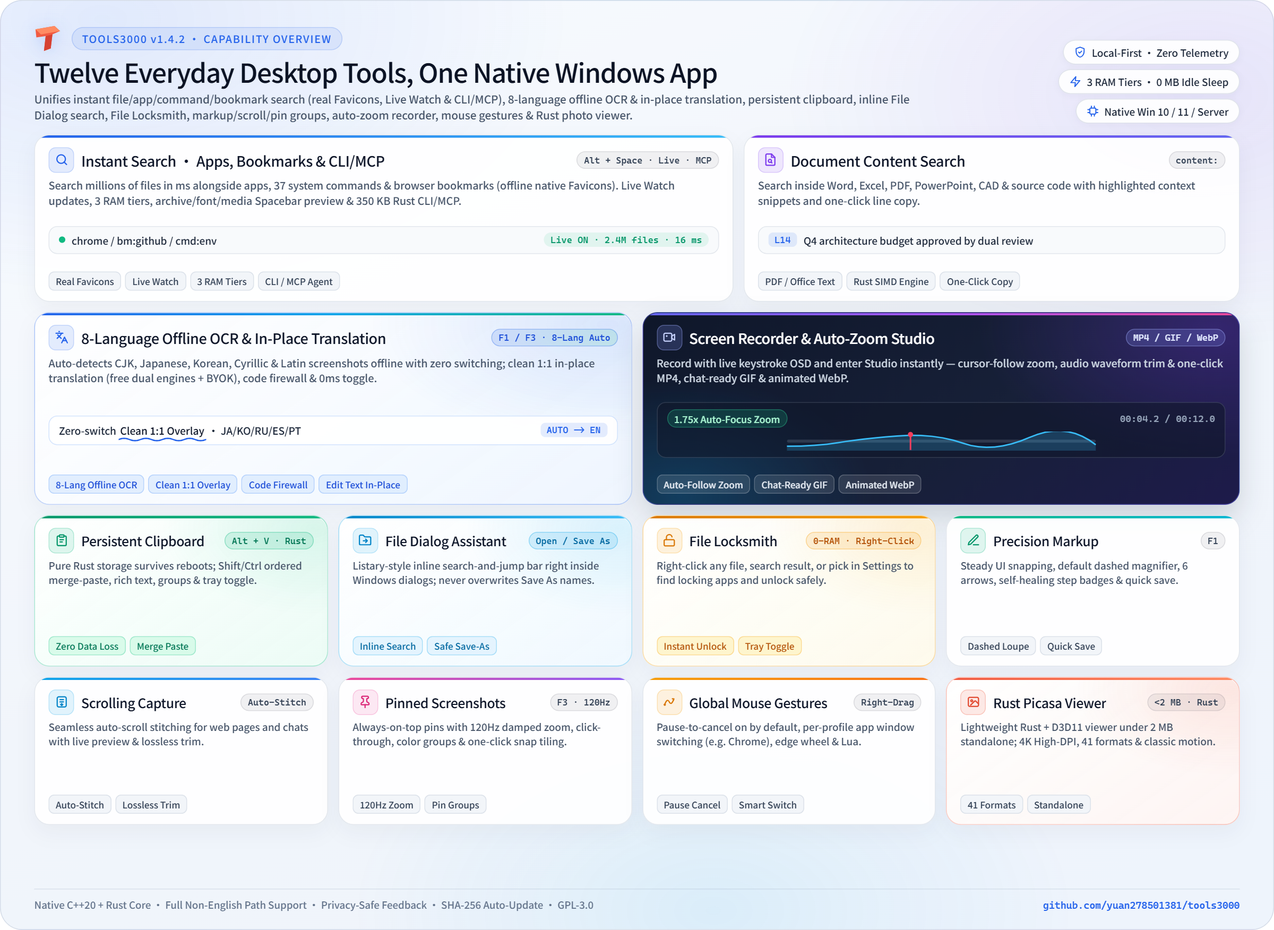
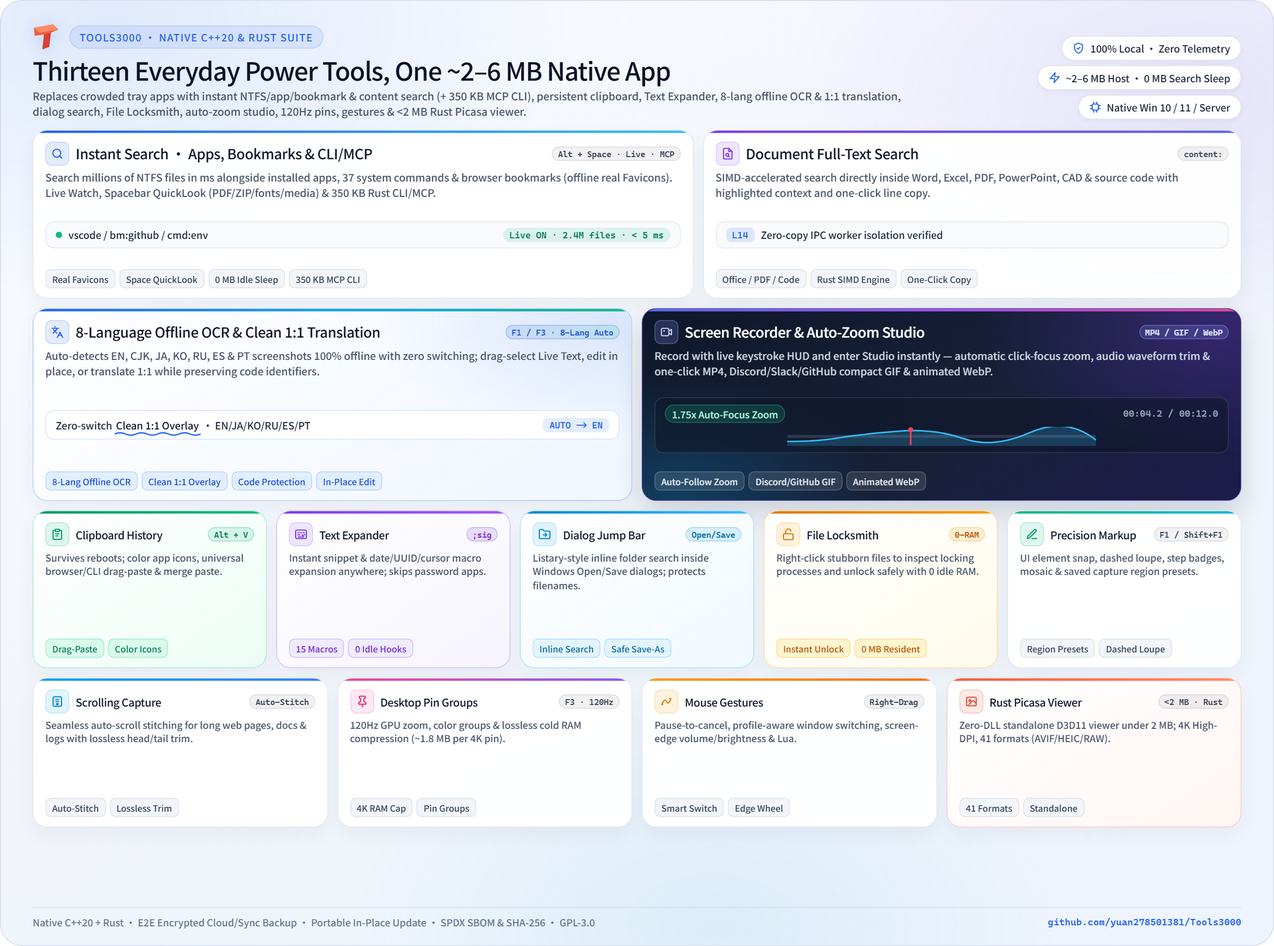
完成 8 国语言 README 与 13 核总览海报跨地域本地化精修及首屏转化升级
- [业务角度]
  - 升级全 8 国语言总览海报为 13 核无版本号常青布局（新增文本扩展器与约 2-6 MB 主进程常驻指标，移除旧版角标），杜绝版本演进图文脱节
  - 按各语种本土生态校准参照软件与术语：英文版替换为 ShareX/Greenshot/Discord/Slack 等欧美通用参照，日文版锚定 Rapture/Clibor/WinShot 与零注册表便携特性，韩文版锚定 PicPick/ALCapture/Kalmuri 与零广告捆绑特性，俄葡西版适配 Telegram/Discord/WhatsApp
  - 在英文与中文主 README 首屏置顶一键安装命令与最新下载入口，并将英文主 README 13 项动图优化为首屏核心 6 项默认展开与进阶 7 项按需折叠，提升首屏聚焦度与移动端加载体验

- [技术角度]
  - 通过自动化脚本校验全部 8 份 README 相对路径、图片资源引用、零 Emoji 与术语纯净度 100% 通过

diff --git a/README.md b/README.md
@@ -23,7 +23,12 @@
 
 <br />
 
-Tools3000 unifies everyday **file, app, system-command & real-Favicon browser bookmark search (with Live Watch, 3 RAM tiers & CLI / MCP), document content search, persistent clipboard history, native Text Expander, inline File Dialog search, File Locksmith, scrolling capture, precision markup, grouped desktop pins, 8-language offline OCR & clean in-place translation, screen recording with auto-zoom Studio (exporting MP4, WeChat-ready GIF, and animated WebP), global mouse gestures, encrypted config backup, and a Rust Picasa photo viewer** into one native Windows app. Core features run 100% locally with full support for non-English install folders and Windows usernames, keep the resident main host around 2–6 MB of private working set (around a dozen MB across the full ready process tree, with optional 0 MB idle search sleep), and support personal PCs (`x64` & `ARM64`) as well as concurrent multi-user Windows Server desktops.
+Tools3000 unifies everyday **file, app, system-command & real-Favicon browser bookmark search (with Live Watch, 3 RAM tiers & CLI / MCP), document content search, persistent clipboard history, native Text Expander, inline File Dialog search, File Locksmith, scrolling capture, precision markup, grouped desktop pins, 8-language offline OCR & clean in-place translation, screen recording with auto-zoom Studio (exporting MP4, Discord/Slack/GitHub-ready compact GIF, and animated WebP), global mouse gestures, encrypted config backup, and a Rust Picasa photo viewer** into one native Windows app. Core features run 100% locally with full support for non-English install folders and Windows usernames, keep the resident main host around **2–6 MB** of private working set (with optional 0 MB idle search sleep), and support personal PCs (`x64` & `ARM64`) as well as concurrent multi-user Windows Server desktops.
+
+> **Quick Install** — Grab **[Installer `.exe` / Portable `.zip` (Latest Release)](https://github.com/yuan278501381/Tools3000/releases/latest)**, or install via **Scoop** (`winget install Yy1.Tools3000` PR `#487469` pending merge):
+> ```powershell
+> scoop bucket add tools3000 https://github.com/yuan278501381/Tools3000 && scoop install tools3000/tools3000
+> ```
 
 ---
 
@@ -45,49 +50,35 @@ Tools3000 unifies everyday **file, app, system-command & real-Favicon browser bo
     </td>
     <td width="50%" align="center" valign="top">
       <img src="docs/images/en-US/ocr_live_text_demo.webp" alt="8-language offline OCR, Live Text selection, and in-place text replacement" width="100%" /><br />
-      <sub><b>8-Language Offline OCR &amp; Live Text</b> · Auto-detects CJK/JA/KO/RU/ES/PT locally; select, annotate, or edit in place</sub>
+      <sub><b>8-Language Offline OCR &amp; Live Text</b> · Auto-detects EN/CJK/JA/KO/RU/ES/PT locally; select, annotate, or edit in place</sub>
     </td>
   </tr>
   <tr>
     <td width="50%" align="center" valign="top">
-      <img src="docs/images/en-US/scroll_capture_demo.webp" alt="Scrolling capture with live preview and lossless trim" width="100%" /><br />
-      <sub><b>Scrolling Capture</b> · Auto-scroll seamless stitching with live sidebar preview and lossless head/tail trim</sub>
+      <img src="docs/images/en-US/translate_demo.webp" alt="Clean 1:1 in-place screenshot translation with code protection" width="100%" /><br />
+      <sub><b>In-Place 1:1 Screenshot Translation</b> · Zero-config dual free channels + BYOK LLMs, clean 1:1 overlay, code protection &amp; 0ms toggle</sub>
     </td>
     <td width="50%" align="center" valign="top">
       <img src="docs/images/en-US/screen_recording_demo.webp" alt="Screen recording and auto-zoom Studio" width="100%" /><br />
-      <sub><b>Screen Recorder &amp; Auto-Zoom Studio</b> · Smart cursor-follow zoom, export MP4, WeChat-ready GIF, and animated WebP</sub>
+      <sub><b>Screen Recorder &amp; Auto-Zoom Studio</b> · Smart cursor-follow zoom, export MP4, Discord/Slack/GitHub compact GIF &amp; animated WebP</sub>
     </td>
   </tr>
   <tr>
     <td width="50%" align="center" valign="top">
-      <img src="docs/images/en-US/content_search_demo.webp" alt="Full-text document content search with one-click line copy" width="100%" /><br />
-      <sub><b>Document Content Search</b> · Search inside PDF, Word, Excel, and source code with highlighted context</sub>
+      <img src="docs/images/en-US/clipboard_demo.webp" alt="Persistent clipboard history with drag-paste and Shift/Ctrl ordered merge paste" width="100%" /><br />
+      <sub><b>Persistent Clipboard History (Alt + V)</b> · Survives reboots, color app icons, universal browser/CLI drag-paste &amp; ordered merge paste</sub>
     </td>
     <td width="50%" align="center" valign="top">
-      <img src="docs/images/en-US/capture_markup_demo.webp" alt="Precision screenshot annotation and dashed magnifier" width="100%" /><br />
-      <sub><b>Precision Screenshot Markup</b> · Smart element snapping, dashed optical magnifier, privacy mosaic, and auto-healing steps</sub>
+      <img src="docs/images/en-US/text_expander_demo.webp" alt="System-wide Text Expander: instant snippet expansion, dynamic macros, and zero clipboard pollution" width="100%" /><br />
+      <sub><b>Native Text Expander</b> · Type <code>;date</code> or <code>;sig</code> anywhere for instant expansion with 15 dynamic macros &amp; password-manager guard</sub>
     </td>
   </tr>
-  <tr>
-    <td width="50%" align="center" valign="top">
-      <img src="docs/images/en-US/pin_groups_demo.webp" alt="Grouped desktop pins with quick switching and snap tiling" width="100%" /><br />
-      <sub><b>Desktop Pins &amp; Pin Groups</b> · F3 always-on-top pins with color groups, top bar switching, and one-click tiling</sub>
-    </td>
-    <td width="50%" align="center" valign="top">
-      <img src="docs/images/en-US/mouse_gesture_demo.webp" alt="Global mouse gestures and screen-edge wheel volume control" width="100%" /><br />
-      <sub><b>Global Mouse Gestures</b> · Pause-to-cancel on by default, profile-aware window switching, instant trigger &amp; edge wheel</sub>
-    </td>
-  </tr>
-  <tr>
-    <td width="50%" align="center" valign="top">
-      <img src="docs/images/en-US/translate_demo.webp" alt="WeChat-grade 1:1 in-place screenshot translation with code protection" width="100%" /><br />
-      <sub><b>In-Place Screenshot Translation</b> · Zero-config dual free channels + BYOK LLMs, clean 1:1 overlay &amp; 0ms toggle</sub>
-    </td>
-    <td width="50%" align="center" valign="top">
-      <img src="docs/images/en-US/clipboard_demo.webp" alt="Persistent clipboard history with Shift/Ctrl ordered merge paste" width="100%" /><br />
-      <sub><b>Persistent Clipboard History (Alt + V)</b> · Survives reboots, Shift/Ctrl ordered merge paste &amp; tray toggle</sub>
-    </td>
-  </tr>
+</table>
+
+<details>
+<summary><b>View 7 more live demos</b> — File Dialog Inline Search, File Locksmith, Scrolling Capture, Precision Markup, 120Hz Pin Groups, Document Full-Text Search &amp; Global Mouse Gestures</summary>
+<br />
+<table>
   <tr>
     <td width="50%" align="center" valign="top">
       <img src="docs/images/en-US/dialog_enhancer_demo.webp" alt="File Dialog Assistant with Listary-style inline search and jump" width="100%" /><br />
@@ -99,12 +90,33 @@ Tools3000 unifies everyday **file, app, system-command & real-Favicon browser bo
     </td>
   </tr>
   <tr>
+    <td width="50%" align="center" valign="top">
+      <img src="docs/images/en-US/scroll_capture_demo.webp" alt="Scrolling capture with live preview and lossless trim" width="100%" /><br />
+      <sub><b>Scrolling Capture</b> · Auto-scroll seamless stitching with live sidebar preview and lossless head/tail trim</sub>
+    </td>
+    <td width="50%" align="center" valign="top">
+      <img src="docs/images/en-US/capture_markup_demo.webp" alt="Precision screenshot annotation and dashed magnifier" width="100%" /><br />
+      <sub><b>Precision Screenshot Markup</b> · Smart element snapping, dashed optical magnifier, privacy mosaic &amp; saved region presets</sub>
+    </td>
+  </tr>
+  <tr>
+    <td width="50%" align="center" valign="top">
+      <img src="docs/images/en-US/pin_groups_demo.webp" alt="Grouped desktop pins with quick switching and snap tiling" width="100%" /><br />
+      <sub><b>Desktop Pins &amp; Pin Groups</b> · F3 always-on-top pins with color groups, 4K lossless RAM compression &amp; one-click tiling</sub>
+    </td>
+    <td width="50%" align="center" valign="top">
+      <img src="docs/images/en-US/content_search_demo.webp" alt="Full-text document content search with one-click line copy" width="100%" /><br />
+      <sub><b>Document Content Search</b> · Search inside PDF, Word, Excel, and source code with highlighted context</sub>
+    </td>
+  </tr>
+  <tr>
     <td colspan="2" align="center" valign="top">
-      <img src="docs/images/en-US/text_expander_demo.webp" alt="System-wide Text Expander: instant snippet expansion, dynamic macros, and zero clipboard pollution" width="68%" /><br />
-      <sub><b>Text Expander</b> · Type <code>;date</code> or <code>;sig</code> anywhere for instant expansion with dynamic macros, password-manager guard, and zero clipboard history pollution</sub>
+      <img src="docs/images/en-US/mouse_gesture_demo.webp" alt="Global mouse gestures and screen-edge wheel volume control" width="68%" /><br />
+      <sub><b>Global Mouse Gestures</b> · Pause-to-cancel on by default, profile-aware window switching, instant trigger &amp; edge wheel</sub>
     </td>
   </tr>
 </table>
+</details>
 
 | Module | Core Experience |
 | :--- | :--- |
@@ -118,7 +130,7 @@ Tools3000 unifies everyday **file, app, system-command & real-Favicon browser bo
 | **Precision Screenshot Markup** | `F1` snaps directly to windows and UI elements with pixel color picker, default dashed optical magnifier, 6 arrow styles, self-healing step badges, mosaic, sharing frames, decoupled auto-copy / auto-save finish actions, plus `Shift + F1` / `R` to reuse saved & recent capture regions. |
 | **Desktop Pins & Pin Groups** | `F3` pins screenshots or clipboard content always-on-top with 120Hz GPU smooth zoom, opacity, click-through, color groups, and one-click snap-tiling; includes lossless cold compression & GPU texture unloading so even dozens of 4K or scrolling pins stay lightweight, with configurable auto Live Text recognition. |
 | **8-Language Offline OCR & In-Place Translation** | Pure local auto-detect OCR across 8 languages (Chinese, English, Japanese, Korean, Russian, Spanish, and Portuguese — on-demand lightweight language packs plus right-click per-image language switch); select/copy, highlight/underline, edit in place, extract tables/QR codes; plus **clean 1:1 in-place screenshot translation** (free dual channels + BYOK LLMs) with code protection and 0ms toggle. |
-| **Screen Recorder & Auto-Zoom Studio** | Screen recording with keystroke overlay flows directly into Studio — automatic click-focus zoom, curated wallpapers, audio waveform timeline, and one-click export to **MP4**, **WeChat-ready GIF**, and **animated WebP**. |
+| **Screen Recorder & Auto-Zoom Studio** | Screen recording with keystroke overlay flows directly into Studio — automatic click-focus zoom, curated wallpapers, audio waveform timeline, and one-click export to **MP4**, **Discord / Slack / GitHub-ready compact GIF**, and **animated WebP**. |
 | **Global Mouse Gestures** | Right-drag to switch tabs, navigate back, or close windows; pause-to-cancel enabled by default, smart app window switching without duplicate launches (even across Chrome profiles), instant trigger without releasing, screen-edge wheel volume/brightness, 8-second easter egg, fullscreen game bypass, and Lua scripting. |
 | **Presenter, Remote Boost & Feedback** | Crisp keystroke OSD and double-`Ctrl` spotlight; remote desktop (`mstsc`, RustDesk, ToDesk) hotkey passthrough and one-key stuck-modifier recovery; built-in sidebar **Feedback** button with automatic local privacy redaction before exporting diagnostics. |
 | **Picasa Photo Viewer (Rust Recreation · Optional)** | Lightweight Picasa-style image viewer recreated in Rust + Direct2D (**viewer only, not the full Google Picasa suite**). **Under 2 MB as a zero-dependency standalone executable** that works both inside Tools3000 and completely standalone on any Windows PC. Unchecked by default in the installer; enabling automatically associates all 41 supported image formats with classic Polaroid icons and a native dark/light Direct2D format manager. Alongside faithful cursor-anchored damped zoom, filmstrip wave, smooth close, and cross-dissolve slideshow animations, it **adds modern capabilities the original lacked**: native 4K High-DPI (100%–250%+) crispness, 60–240Hz VSync rendering, WebP / AVIF / HEIC / SVG / QOI / DDS / camera RAW decoding, animated GIF/WebP/APNG frame scrubbing, lossless horizontal/vertical flip, and 8-language UI. |
@@ -164,11 +176,11 @@ Tools3000 is built for complete zero-black-box transparency (full details in **[
 
 ## Why I Built Tools3000
 
-I have been a heavy **Everything** user for over ten years. For screenshots, I started with the built-in **QQ / WeChat** capture tools, moved to **FastStone Capture** for its convenient annotation tools, then switched to **Snipaste** for pinning screenshots on screen, and later migrated to **PixPin** for scrolling capture, magnifier annotations, and OCR. For mouse gestures, I went from **WGestures** to **WGestures 2**, and I cycled through plenty of screen recorders along the way — and even gave Microsoft **PowerToys** a try in between, yet it still missed several daily essentials, leaving me back with a row of separate apps.
+I have been a heavy **Everything** user for over ten years. For screenshots and desktop pins, I bounced across **Greenshot**, **FastStone Capture**, **ShareX**, and **Snipaste** as I needed element snapping, scrolling capture, magnifier callouts, and fast offline OCR. For clipboard history and snippets I ran **Ditto** and **AutoHotkey**, for mouse gestures I went from **WGestures** to **StrokesPlus**, and I cycled through plenty of screen recorders along the way — even giving Microsoft **PowerToys** a serious try in between, yet it still missed several daily essentials, leaving me back with a crowded row of separate background apps.
 
-Image viewers were another long-standing frustration: domestic viewers were packed with pop-up ads and bloatware, and after Google discontinued **Picasa**, I tried several alternatives online — including **FastStone Image Viewer** and even the official viewer from the Everything author (**Void Image Viewer**) — yet none felt as fluid and effortless as Picasa. Eventually I gave up and settled for the built-in Windows Photos app. While building Tools3000, I decided to recreate the lightweight Picasa Photo Viewer in Rust + Direct2D (under 2 MB, zero external dependencies, usable completely standalone) and fill in the modern formats and High-DPI capabilities the classic original never had.
+Image viewers were another long-standing frustration: third-party freeware viewers were increasingly packed with pop-up ads or heavy frameworks, and after Google discontinued **Picasa**, I tried **FastStone Image Viewer** and even **Void Image Viewer** (from the Everything author) — yet none felt quite as fluid and effortless as classic Picasa on modern 4K displays. While building Tools3000, I decided to recreate the lightweight Picasa Photo Viewer in Rust + Direct3D 11 (under 2 MB, zero external dependencies, usable completely standalone) and fill in the modern formats (AVIF, HEIC, WebP, SVG, RAW) and High-DPI capabilities the classic original never had.
 
-One day I looked at the row of icons sitting in my Windows system tray and thought: **what if all of these lived in a single app?** On top of tray clutter, a couple of daily annoyances kept nagging at me — PixPin's OCR still lagged behind WeChat in both accuracy and speed, and WGestures started leaving a stubborn tiny text box stuck on screen that only went away after restarting the app. With AI now making ambitious solo builds possible, I rolled up my sleeves and built **Tools3000** as an all-in-one replacement.
+One day I looked at the row of icons sitting in my Windows system tray and thought: **what if all of these lived in a single native app without Electron bloat?** On top of tray clutter and conflicting global hooks, small daily annoyances kept nagging at me — built-in Windows OCR struggled on mixed-language technical screenshots, and my gesture tool occasionally left stuck overlay artifacts on screen until restarted. With modern tooling making ambitious solo systems projects practical, I rolled up my sleeves and built **Tools3000** as one cohesive C++20 + Rust suite.
 
 To be completely transparent with new users: I have been **dogfooding Tools3000 daily for 4 months**, progressively adding features and fixing issues as they came up. Early on I kept the old apps running as fallbacks whenever something broke; **today, my system tray is finally clean — Tools3000 is the only one left running.**
 
@@ -184,9 +196,9 @@ Dedicated single-purpose tools each excel at deep niche workflows. Tools3000 is 
 | :--- | :--- | :--- |
 | **Everything** | `Alt + Space` millisecond NTFS filename, phonetic, `bm:` browser bookmarks, and `content:` full-text document search, plus a 350 KB pure Rust CLI / MCP server — starting strictly on demand | When you need HTTP/ETP network file servers, full EXIF/media property column indexing, or legacy scripts tied to `es.exe` syntax |
 | **Ditto / Windows `Win + V` Clipboard** | `Alt + V` pure Rust atomic persistent clipboard history (survives reboots) with `Shift / Ctrl` ordered merge-paste & batch delete, HTML/RTF rich text, custom groups, inline edit, and `Alt + 1..9` instant paste | When you need real-time LAN clipboard sync across multiple PCs or cloud-synced clipboard roaming |
-| **Snipaste / PixPin** | `F1` region capture & markup, dashed magnifier, scrolling capture, `F3` 120Hz grouped desktop pins, 1:1 in-place screenshot translation, and fast local offline OCR with in-place text replacement | When you rely on Snipaste's ultra-specialized legacy GUI element snapping or custom CLI screenshot chains |
+| **Snipaste / Greenshot / PowerToys Text Extractor** | `F1` region capture & markup, dashed magnifier, scrolling capture, `F3` 120Hz grouped desktop pins (lossless 4K RAM cap), 1:1 in-place screenshot translation, and fast 8-language local offline OCR with in-place text replacement | When you rely on Snipaste's ultra-specialized legacy GUI element snapping or custom CLI screenshot chains |
 | **WGestures / StrokesPlus** | Right-drag gestures for tabs/back/close, instant trigger without release, screen-edge wheel volume, hot corners, fullscreen game bypass, and Lua scripting | When you need multi-button chord gestures (e.g., left-hold + right-gesture), intricate window-region conditions, or years of recorded macros |
-| **Screen Recorders (e.g. ShareX)** | Screen recording, keystroke overlay, instant auto-zoom Studio (waveform trimming & cursor auto-zoom), exporting MP4, messenger-ready GIF, and animated WebP | When you need 80+ cloud/S3/FTP/Webhook auto-upload workflows or heavily customized FFmpeg post-capture pipelines |
+| **ShareX / Screen Studio** | Screen recording, keystroke overlay, instant auto-zoom Studio (waveform trimming & cursor auto-zoom), exporting MP4, Discord/Slack/GitHub compact GIF, and animated WebP | When you need 80+ cloud/S3/FTP/Webhook auto-upload workflows or heavily customized FFmpeg post-capture pipelines |
 | **Picasa Photo Viewer / FastStone / Windows Photos** | Optional under-2 MB zero-dependency Rust recreation of the classic lightweight Picasa viewer (also works completely standalone), bringing faithful animations plus 4K High-DPI, WebP/AVIF/HEIC/SVG/RAW, and lossless flip | When you need full Google Picasa album catalog management, face recognition, or dedicated batch RAW editing |
 | **Listary Dialog Jump / PowerToys File Locksmith** | Listary-style inline folder search in Windows Open/Save and internal dialogs (protecting Save-As filenames); zero-RAM File Locksmith via Explorer right-click or built-in page | Full Listary custom launcher action workflows or deep kernel handle forensics |
 | **Espanso / Beeftext / AutoHotkey Snippets** | Built-in native Text Expander (ready out of the box, zero hooks when off) with immediate/boundary triggers, date/clipboard/cursor macros, password-manager auto-skip, live sandbox, and JSON import/export | Complex YAML form dialogs, shell-command dynamic output, or cross-platform Linux/macOS config sync |

diff --git a/docs/i18n/README.es.md b/docs/i18n/README.es.md
@@ -116,7 +116,7 @@ Tools3000 integra en una sola aplicación nativa para Windows las herramientas e
 | **Anotación Precisa** | `F1` se ajusta automáticamente a ventanas y controles de interfaz; incluye selector de color por píxel, lupa óptica discontinua, 6 tipos de flecha, numeración autoajustable, mosaico, marcos, acciones independientes de copiar/guardar al finalizar y `Shift + F1` / `R` para regiones fijadas y recientes. |
 | **Pines en Pantalla y Grupos** | Fija capturas o contenido del portapapeles siempre encima (`F3`) con zoom GPU fluido 120Hz, opacidad, paso de clics, grupos de color y alineación en cuadrícula; incorpora compresión fría sin pérdidas para decenas de pines 4K/largos e interruptor de OCR automático al fijar. |
 | **OCR Local (8 Idiomas) y Traducción In Situ** | Reconocimiento 100% local con detección automática de 8 idiomas sin cambio manual (paquetes ligeros adicionales bajo demanda y cambio de idioma por clic derecho en cada pin); selecciona/copia, subraya, edita en el sitio y extrae tablas/QR, más **traducción limpia 1:1 directamente sobre la captura** (canales gratuitos + BYOK LLM), protección de código y cambio en 0 ms al original. |
-| **Grabación de pantalla y Estudio** | Graba la pantalla con superposición de teclas y clics y pasa al instante al Estudio: zoom automático inteligente en clics, fondos seleccionados, edición por forma de onda y exportación a **MP4**, **GIF listo para mensajería/WeChat** y **WebP animado**. |
+| **Grabación de pantalla y Estudio** | Graba la pantalla con superposición de teclas y clics y pasa al instante al Estudio: zoom automático inteligente en clics, fondos seleccionados, edición por forma de onda y exportación a **MP4**, **GIF compacto para Discord / Slack / Telegram** y **WebP animado**. |
 | **Gestos Globales de Ratón** | Mantén el botón derecho y desliza para cambiar pestañas, retroceder o cerrar ventanas; cancelar al pausar activo por defecto, cambio inteligente a ventanas ya abiertas (incluso distintos perfiles de Chrome), disparo inmediato, volumen/brillo en bordes, easter egg de 8s, pausa en juegos y scripts Lua. |
 | **Presentación, Escritorio Remoto y Comentarios** | Visualización limpia de teclas y foco con doble toque en `Ctrl`; paso directo de atajos en mstsc, RustDesk, ToDesk y AnyDesk con liberación de teclas bloqueadas; botón **Comentarios** en la esquina inferior izquierda con ocultación automática local de usuario, IP, correo y tokens antes de exportar diagnósticos. |
 | **Visor de Fotos Picasa (Rust · Opcional)** | Visor ligero estilo Picasa recreado en Rust + Direct2D (**solo visor, no la suite completa de Google Picasa**). **Ejecutable único de menos de 2 MB y cero dependencias externas: funciona con Tools3000 o completamente independiente en cualquier PC con Windows.** Desmarcado por defecto en el instalador; al activarlo asocia automáticamente los 41 formatos compatibles (con iconos Polaroid y panel nativo Direct2D en modo claro/oscuro). Además del zoom amortiguado en el cursor, tira de miniaturas y presentación con fundido cruzado, **añade funciones que el original nunca tuvo**: nitidez 4K High-DPI (100%–250%+), VSync 60–240 Hz, WebP / AVIF / HEIC / SVG / QOI / DDS / RAW de cámara, control de animaciones, volteo sin pérdidas e interfaz en 8 idiomas. |
@@ -162,11 +162,11 @@ Transparencia total sin cajas negras (detalles completos en **[SECURITY.md](../.
 
 ## Por qué creé Tools3000
 
-Llevo más de diez años usando **Everything** a diario. En capturas de pantalla empecé con las herramientas integradas de **QQ y WeChat**, pasé a **FastStone Capture** por lo cómodas que eran sus anotaciones, luego cambié a **Snipaste** para poder fijar capturas en pantalla, y más tarde migré a **PixPin** por la captura con desplazamiento, el efecto lupa y el OCR; en gestos de ratón utilicé **WGestures** y **WGestures 2**, además de probar muchos grabadores de pantalla — a mitad de camino incluso probé Microsoft **PowerToys**, pero seguían faltando varias piezas clave de mi día a día y acabé de nuevo con varias utilidades residentes.
+Llevo más de diez años usando **Everything** a diario. En capturas de pantalla empecé con las **Lightshot** y **Greenshot**, pasé a **FastStone Capture** por lo cómodas que eran sus anotaciones, luego cambié a **Snipaste** para poder fijar capturas en pantalla, y más tarde migré a **PixPin** por la captura con desplazamiento, el efecto lupa y el OCR; en gestos de ratón utilicé **WGestures** y **WGestures 2**, además de probar muchos grabadores de pantalla — a mitad de camino incluso probé Microsoft **PowerToys**, pero seguían faltando varias piezas clave de mi día a día y acabé de nuevo con varias utilidades residentes.
 
 Con los visores de imágenes me ocurrió lo mismo: las alternativas gratuitas más extendidas estaban llenas de anuncios y software añadido, y desde que Google dejó de actualizar **Picasa** probé varias opciones — como **FastStone Image Viewer** e incluso el visor oficial del autor de Everything (**Void Image Viewer**) — pero ninguno se sentía tan fluido y natural como Picasa. Al final me rendí y me conformé con la app Fotos integrada de Windows. Así que aproveché para recrear con Rust + Direct2D el clásico visor ligero de Picasa (menos de 2 MB, cero dependencias y totalmente independiente), completando además lo que faltaba en el original: nitidez High-DPI y formatos modernos como WebP/AVIF/HEIC/SVG/RAW.
 
-Un día, mirando la fila de iconos acumulados en la bandeja del sistema de Windows, pensé: **qué bien sería unir todo esto en una sola aplicación.** A eso se sumaban dos molestias cotidianas — el OCR de PixPin seguía por detrás de WeChat en precisión y velocidad, y WGestures empezó a dejar un pequeño cuadro de texto atascado en pantalla que solo desaparecía al reiniciar el programa. Aprovechando la llegada de la IA, decidí crear esta suite todo-en-uno por mi cuenta: **Tools3000**.
+Un día, mirando la fila de iconos acumulados en la bandeja del sistema de Windows, pensé: **qué bien sería unir todo esto en una sola aplicación.** A eso se sumaban dos molestias cotidianas — el OCR integrado de Windows se quedaba corto en precisión y velocidad, y WGestures empezó a dejar un pequeño cuadro de texto atascado en pantalla que solo desaparecía al reiniciar el programa. Aprovechando la llegada de la IA, decidí crear esta suite todo-en-uno por mi cuenta: **Tools3000**.
 
 Para ser totalmente sincero con quienes lo prueben: llevo **4 meses usándolo a diario**, añadiendo funciones de forma gradual y corrigiendo fallos sobre la marcha. Al principio mantenía las apps anteriores abiertas por si algo fallaba y volvía a ellas mientras lo arreglaba; **hoy mi bandeja del sistema por fin está limpia, con Tools3000 como única herramienta residente.**
 
@@ -182,7 +182,7 @@ Cada utilidad especializada destaca en flujos muy concretos. Tools3000 cubre má
 | :--- | :--- | :--- |
 | **Everything** | `Alt + Space` para búsqueda NTFS instantánea por nombre, marcadores `bm:` y `content:` dentro de documentos, más CLI / MCP en Rust (350 KB), arrancando bajo demanda | Si necesitas servidores HTTP/ETP, indexación de propiedades EXIF/multimedia o scripts antiguos ligados a la sintaxis de `es.exe` |
 | **Ditto / Windows `Win + V`** | `Alt + V` historial persistente en Rust (sobrevive reinicios) con pegado combinado `Shift / Ctrl` y borrado en lote, HTML/RTF, grupos, edición directa y `Alt + 1..9` | Si necesitas sincronización en tiempo real por red local entre varios PCs o itinerancia en la nube |
-| **Snipaste / PixPin** | `F1` captura y anotación, lupa discontinua, captura con desplazamiento, `F3` grupos de pines 120Hz, traducción 1:1 in situ y OCR local con edición directa | Si dependes del ajuste extremo a controles GUI heredados o flujos CLI personalizados |
+| **Snipaste / Lightshot / Greenshot** | `F1` captura y anotación, lupa discontinua, captura con desplazamiento, `F3` grupos de pines 120Hz, traducción 1:1 in situ y OCR local con edición directa | Si dependes del ajuste extremo a controles GUI heredados o flujos CLI personalizados |
 | **WGestures / StrokesPlus** | Gestos con botón derecho, disparo inmediato, volumen en bordes, esquinas activas, pausa en juegos y scripts Lua | Si empleas gestos con múltiples botones simultáneos, condiciones complejas de ventana o macros históricos |
 | **Grabadores (ej. ShareX)** | Grabación de pantalla, teclas en pantalla, Estudio (edición por forma de onda y zoom de cursor), exportación a MP4, GIF y WebP | Si necesitas subida automática a 80+ nubes/S3/FTP/Webhook o pipelines FFmpeg muy personalizados |
 | **Picasa Photo Viewer / FastStone / Fotos de Windows** | Visor ligero Picasa opcional en Rust (< 2 MB, cero dependencias, ejecutable independiente): animaciones clásicas con 4K High-DPI, WebP/AVIF/HEIC/SVG/RAW y volteo sin pérdidas | Si necesitas la biblioteca de álbumes y reconocimiento facial de Google Picasa completo o revelado RAW profesional por lotes |

diff --git a/docs/i18n/README.pt-BR.md b/docs/i18n/README.pt-BR.md
@@ -116,7 +116,7 @@ O Tools3000 reúne em um único aplicativo nativo para Windows as ferramentas es
 | **Anotação Precisa** | `F1` encaixa automaticamente em janelas e controles de interface; inclui seletor de cor por pixel, lupa óptica tracejada, 6 estilos de seta, numeração autoajustável, mosaico, molduras, ações independentes de copiar/salvar ao concluir, além de `Shift + F1` / `R` para regiões fixadas e recentes. |
 | **Pins na Tela e Grupos** | Fixe capturas ou trechos da área de transferência sempre no topo (`F3`) com zoom GPU fluido 120Hz, opacidade, clique transparente, grupos de cor e alinhamento em grade; traz compressão fria sem perdas para dezenas de pins 4K/longos e opção de reconhecimento automático de texto ao fixar. |
 | **OCR Offline (8 Idiomas) e Tradução no Local** | OCR 100% local com detecção automática de 8 idiomas sem troca manual (pacotes leves extras sob demanda e troca de idioma com clique direito no pin); copie, sublinhe, edite no local e extraia tabelas/QR Codes, mais **tradução limpa 1:1 diretamente sobre a captura** (canais gratuitos + BYOK LLM), proteção de código e alternância em 0 ms. |
-| **Gravador de Tela e Estúdio** | Grave a tela com sobreposição de teclas/cliques e entre direto no Estúdio: zoom automático nos cliques, papéis de parede selecionados, edição por forma de onda e exportação em **MP4**, **GIF pronto para mensageiros/WeChat** e **WebP animado**. |
+| **Gravador de Tela e Estúdio** | Grave a tela com sobreposição de teclas/cliques e entre direto no Estúdio: zoom automático nos cliques, papéis de parede selecionados, edição por forma de onda e exportação em **MP4**, **GIF compacto para Discord / WhatsApp / Slack** e **WebP animado**. |
 | **Gestos Globais do Mouse** | Segure o botão direito e deslize para alternar abas, voltar ou fechar janelas; cancelar ao pausar ativo por padrão, alternância inteligente para janelas já abertas (inclusive perfis distintos do Chrome), disparo instantâneo, volume/brilho na borda, easter egg de 8s, pausa em jogos e scripts Lua. |
 | **Apresentação, Acesso Remoto e Feedback** | Exibição limpa de teclas e holofote com duplo toque em `Ctrl`; passagem de atalhos para mstsc, RustDesk, ToDesk e AnyDesk com desbloqueio de teclas presas; botão **Feedback** no canto inferior esquerdo com mascaramento automático local de usuário, IP, e-mail e tokens antes de exportar diagnósticos. |
 | **Visualizador de Fotos Picasa (Rust · Opcional)** | Visualizador leve no estilo Picasa recriado em Rust + Direct2D (**apenas visualizador, não o pacote completo Google Picasa**). **Executável único com menos de 2 MB e zero dependências externas — funciona junto ao Tools3000 ou totalmente independente em qualquer Windows.** Desmarcado por padrão no instalador; ao ativar, associa automaticamente todos os 41 formatos suportados (com ícones Polaroid e painel Direct2D nativo com tema claro/escuro). Além do zoom amortecido no cursor, tira de miniaturas e apresentação com fundido cruzado, **adiciona recursos ausentes no original**: nitidez 4K High-DPI (100%–250%+), VSync 60–240 Hz, WebP / AVIF / HEIC / SVG / QOI / DDS / RAW de câmeras, controle de quadros animados, espelhamento sem perdas e 8 idiomas. |
@@ -162,11 +162,11 @@ Transparência total em quatro camadas (detalhes em **[SECURITY.md](../../.githu
 
 ## Por que criei o Tools3000
 
-Sou usuário assíduo do **Everything** há mais de dez anos. Para capturas de tela, comecei com as capturas integradas do **QQ e WeChat**, passei para o **FastStone Capture** pela praticidade das anotações, depois mudei para o **Snipaste** para poder fixar capturas na tela e, mais tarde, migrei para o **PixPin** por causa da captura com rolagem, lupa e OCR; nos gestos de mouse, usei **WGestures** e **WGestures 2**, além de testar inúmeros gravadores de tela — no meio do caminho cheguei até a experimentar o Microsoft **PowerToys**, mas ainda faltavam peças essenciais do dia a dia e acabei voltando a manter vários aplicativos abertos ao mesmo tempo.
+Sou usuário assíduo do **Everything** há mais de dez anos. Para capturas de tela, comecei com as **Lightshot** e **Greenshot**, passei para o **FastStone Capture** pela praticidade das anotações, depois mudei para o **Snipaste** para poder fixar capturas na tela e, mais tarde, migrei para o **PixPin** por causa da captura com rolagem, lupa e OCR; nos gestos de mouse, usei **WGestures** e **WGestures 2**, além de testar inúmeros gravadores de tela — no meio do caminho cheguei até a experimentar o Microsoft **PowerToys**, mas ainda faltavam peças essenciais do dia a dia e acabei voltando a manter vários aplicativos abertos ao mesmo tempo.
 
 Com visualizadores de imagem foi a mesma frustração: os gratuitos populares vinham cheios de anúncios e instaladores embutidos, e depois que o Google descontinuou o **Picasa**, testei várias alternativas — como **FastStone Image Viewer** e até o visualizador oficial do autor do Everything (**Void Image Viewer**) —, mas nenhum tinha a fluidez e a naturalidade do Picasa. Acabei desistindo e me contentando com o app Fotos nativo do Windows. Aproveitando o projeto, recriei em Rust + Direct2D o clássico visualizador leve do Picasa (menos de 2 MB, zero dependências, utilizável de forma independente) completando tudo o que faltava no original, como High-DPI e formatos modernos (WebP/AVIF/HEIC/SVG/RAW).
 
-Um dia, olhando para a fileira de ícones acumulados na bandeja do sistema do Windows, pensei: **seria ótimo juntar tudo isso em um único aplicativo.** Além disso, alguns incômodos diários persistiam — o OCR do PixPin continuava atrás do WeChat em precisão e velocidade, e o WGestures passou a deixar uma pequena caixa de texto presa na tela que só sumia ao reiniciar o programa. Aproveitando a era da IA, decidi construir do zero essa suíte tudo-em-um: o **Tools3000**.
+Um dia, olhando para a fileira de ícones acumulados na bandeja do sistema do Windows, pensei: **seria ótimo juntar tudo isso em um único aplicativo.** Além disso, alguns incômodos diários persistiam — o OCR nativo do Windows deixava a desejar em precisão e velocidade, e o WGestures passou a deixar uma pequena caixa de texto presa na tela que só sumia ao reiniciar o programa. Aproveitando a era da IA, decidi construir do zero essa suíte tudo-em-um: o **Tools3000**.
 
 Para ser totalmente transparente com quem está conhecendo o projeto: venho **usando o Tools3000 no meu dia a dia há 4 meses**, adicionando recursos de forma gradual e corrigindo problemas conforme aparecem. No começo eu ainda mantinha os programas antigos abertos como plano B quando algo falhava; **hoje minha bandeja do sistema está finalmente limpa — só o Tools3000 continua rodando.**
 
@@ -182,7 +182,7 @@ Cada utilitário clássico tem seus pontos fortes avançados. O Tools3000 reúne
 | :--- | :--- | :--- |
 | **Everything** | `Alt + Space` para busca NTFS instantânea por nome, favoritos `bm:` e `content:` no conteúdo de documentos, mais CLI / MCP em Rust (350 KB), iniciando sob demanda | Quando precisa de servidor HTTP/ETP, indexação completa de metadados EXIF/mídia ou scripts antigos presos à sintaxe do `es.exe` |
 | **Ditto / Windows `Win + V`** | `Alt + V` histórico persistente em Rust (sobrevive a reinícios) com mesclagem ordenada `Shift / Ctrl` e exclusão em lote, HTML/RTF, grupos, edição no local e `Alt + 1..9` | Quando precisa de sincronização de área de transferência em rede local entre vários PCs ou roaming em nuvem |
-| **Snipaste / PixPin** | `F1` captura e anotação, lupa tracejada, captura com rolagem, `F3` grupos de pins 120Hz, tradução 1:1 no local e OCR offline rápido com edição no local | Quando depende da detecção extrema de controles GUI legados ou automações CLI específicas |
+| **Snipaste / Lightshot / Greenshot** | `F1` captura e anotação, lupa tracejada, captura com rolagem, `F3` grupos de pins 120Hz, tradução 1:1 no local e OCR offline rápido com edição no local | Quando depende da detecção extrema de controles GUI legados ou automações CLI específicas |
 | **WGestures / StrokesPlus** | Gestos com botão direito, disparo imediato, volume na borda, cantos ativos, pausa automática em jogos e scripts Lua | Quando utiliza gestos com múltiplos botões simultâneos, condições complexas de janela ou macros legados |
 | **Gravadores (ex.: ShareX)** | Gravação de tela, exibição de teclas, Estúdio (edição por forma de onda e zoom do cursor), exportação em MP4, GIF e WebP | Quando depende de upload automático para 80+ serviços de nuvem/S3/FTP/Webhook ou pipelines FFmpeg personalizados |
 | **Picasa Photo Viewer / FastStone / Fotos do Windows** | Visualizador leve Picasa opcional em Rust (< 2 MB, zero dependências, executável independente): animações clássicas com 4K High-DPI, WebP/AVIF/HEIC/SVG/RAW e espelhamento sem perdas | Quando precisa da biblioteca de álbuns e reconhecimento facial do Google Picasa completo ou edição RAW avançada em lote |

diff --git a/docs/i18n/README.ja.md b/docs/i18n/README.ja.md
@@ -162,11 +162,11 @@ scoop install tools3000/tools3000
 
 ## 開発のきっかけ
 
-私は **Everything** を 10 年以上愛用してきました。スクリーンショットは **QQ・WeChat の内蔵キャプチャ** から始まり、注釈が便利な **FastStone Capture** へ、さらに画面上にピン留めできる **Snipaste** へと移り、スクロール撮影・虫眼鏡注釈・OCR が必要になって **PixPin** へ。マウスジェスチャーは **WGestures** から **WGestures 2** を使い、画面録画ツールもいくつも乗り換え、途中で Microsoft **PowerToys** も試してみましたが、どうしても日常の必須機能がいくつか足りず、結局また複数の常駐アプリに戻ってしまいました。
+私は **Everything** を 10 年以上愛用してきました。スクリーンショットやピン留めは **WinShot**、**FastStone Capture**、**Rapture**、**Snipaste** などを渡り歩き、クリップボード履歴には **Clibor** や **Ditto**、マウスジェスチャーには **WGestures** や **StrokesPlus** を使い、画面録画ツールもいくつも乗り換え、途中で Microsoft **PowerToys** も試してみましたが、どうしても日常の必須機能がいくつか足りず、結局また複数の常駐アプリに戻ってしまいました。
 
-画像ビューアーも同じ悩みでした。国内製フリービューアーの多くは広告やバンドルが多く、Google が **Picasa** を終了してからは **FastStone Image Viewer** や Everything 作者公式の画像ビューアー（**Void Image Viewer**）などいくつも試したものの、Picasa 特有の軽快な手触りと心地よい演出には届かず、最終的には諦めて Windows 標準のフォトアプリで妥協していました。そこで Rust + Direct2D で軽量な Picasa フォトビューアーを自分の手で再現し（2 MB 未満・外部依存ゼロで単体利用も可能）、当時なかった高 DPI 鮮明化や WebP/AVIF/HEIC/SVG/RAW などの最新形式まで一気に補完しました。
+画像ビューアーも同じ悩みでした。フリービューアーの多くは広告やバンドルが多く、Google が **Picasa** を終了してからは **FastStone Image Viewer** や Everything 作者公式の画像ビューアー（**Void Image Viewer**）などいくつも試したものの、Picasa 特有の軽快な手触りと心地よい演出には届かず、最終的には諦めて Windows 標準のフォトアプリで妥協していました。そこで Rust + Direct3D 11 で軽量な Picasa フォトビューアーを自分の手で再現し（2 MB 未満・外部依存ゼロで単体利用も可能）、当時なかった 4K 高 DPI 鮮明化や WebP/AVIF/HEIC/SVG/RAW などの最新形式まで一気に補完しました。
 
-ある日 Windows のタスクトレイに並ぶいくつもの常駐アイコンを眺めながら、**「これらが 1 つのアプリにまとまればいいのに」**と思いました。さらに、PixPin の OCR は精度・速度ともに WeChat に及ばないと感じており、WGestures もある日から画面に小さなテキストボックスが居座って再起動しないと消えない現象に悩まされていました。AI 時代の追い風もあり、それなら自分で作ろうと手掛けたオールインワンツールが **Tools3000** です。
+ある日 Windows のタスクトレイに並ぶいくつもの常駐アイコンを眺めながら、**「これらが Electron 不使用・レジストリを汚さない 1 つの軽量ネイティブアプリにまとまればいいのに」**と思いました。さらに、標準の画面 OCR は日英混在の技術画面で精度が落ちやすく、常駐ツール同士のグローバルフック競合にも悩まされていました。そこで C++20 + Rust でゼロから設計し、主プロセス常駐約 **2〜6 MB** に凝縮したオールインワンツールが **Tools3000** です。
 
 利用を検討される方へ率直にお伝えすると、公開前に私自身が **4 か月間じっくり実用** しながら段階的に機能を追加し、気づいた不具合を少しずつ潰してきました。最初のうちは旧ツールも起動したまま併用し、うまく動かない時だけ戻して修正を重ねていましたが、**いまではタスクトレイがすっかり静かになり、常駐しているのは Tools3000 だけです。**
 
@@ -181,8 +181,8 @@ scoop install tools3000/tools3000
 | 定番の単機能ツール | Tools3000 がカバーする日常ワークフロー | 専用ツールの併用をおすすめする場面 |
 | :--- | :--- | :--- |
 | **Everything** | `Alt + Space` によるミリ秒ファイル名・`bm:` ブックマーク・`content:` 全文検索、350 KB 純 Rust CLI / MCP サーバー内蔵（オンデマンド起動で常駐負荷ゼロ） | HTTP/ETP ネットワーク共有検索、EXIF 等全プロパティ列ソート、既存 `es.exe` 構文に依存するスクリプトが必要な場合 |
-| **Ditto / Windows `Win + V`** | `Alt + V` 純 Rust 永続クリップボード履歴（再起動後も保持）、`Shift / Ctrl` 一括連結貼付・削除、HTML/RTF リッチテキスト、グループ、インライン編集、`Alt + 1..9` 即貼付 | 複数 PC 間の LAN リアルタイム同期やクラウドアカウントによる履歴ローミングが必要な場合 |
-| **Snipaste / PixPin / Rapture** | `F1` キャプチャ注釈、破線ルーペ、スクロール撮影、`F3` 120Hz ピン留めグループ、1:1 その場翻訳、高速オフライン OCR（選択コピー・その場文字修正） | 特殊レガシー GUI の極限スナップ検出や独自 CLI キャプチャ連携に依存する場合 |
+| **Clibor / Ditto / Windows `Win + V`** | `Alt + V` 純 Rust 永続クリップボード履歴（再起動後も保持）、元アプリのカラーアイコン表示、ブラウザ・端末へのドラッグ貼付、`Shift / Ctrl` 一括連結貼付、グループ、`Alt + 1..9` 即貼付 | 複数 PC 間の LAN リアルタイム同期やクラウドアカウントによる履歴ローミングが必要な場合 |
+| **Rapture / Snipaste / WinShot** | `F1` キャプチャ注釈、破線ルーペ、スクロール撮影、`F3` 120Hz ピン留めグループ（4K可逆省メモリ）、1:1 その場翻訳、高速オフライン OCR（選択コピー・その場文字修正） | 特殊レガシー GUI の極限スナップ検出や独自 CLI キャプチャ連携に依存する場合 |
 | **WGestures / StrokesPlus** | 右ドラッグ操作、ホールド中即時実行、画面端ホイール音量、ホットコーナー、ゲーム自動回避、Lua 拡張 | 複雑なマルチボタン同時押しや高度なウィンドウ領域条件・既存マクロ資産を使う場合 |
 | **画面録画ツール（ShareX 等）** | 画面録画、キー表示、自動ズームスタジオ（波形編集＆カーソル自動ズーム）、MP4 / GIF / WebP ワンクリック出力 | 80 以上のクラウド / S3 / FTP 自動アップロードや複雑な FFmpeg 後処理パイプラインを使う場合 |
 | **Picasa ビューアー / FastStone / Windows フォト** | 2 MB 未満・依存ゼロの Rust 再現軽量 Picasa ビューアー（単体起動可）。定番アニメを再現しつつ 4K High-DPI・WebP/AVIF/HEIC/SVG/RAW・可逆反転を補完 | オリジナル Google Picasa のアルバム管理・顔認識や、本格的なバッチ変換／RAW 現像が必要な場合 |

diff --git a/docs/i18n/README.ko.md b/docs/i18n/README.ko.md
@@ -162,11 +162,11 @@ scoop install tools3000/tools3000
 
 ## 개발 계기
 
-저는 **Everything**을 10년 넘게 사용해 온 오랜 사용자입니다. 스크린샷 도구는 **QQ·위챗 내장 캡처**에서 시작해 주석 기능이 편리한 **FastStone Capture**로 옮겼고, 이어 화면에 고정(핀)할 수 있는 **Snipaste**를 거쳐 스크롤 캡처·돋보기 효과·OCR이 필요해 **PixPin**으로 갈아탔습니다. 마우스 제스처는 **WGestures**에서 **WGestures 2**까지 써 왔으며, 화면 녹화 도구도 수많은 앱을 거쳐 왔고, 중간에 Microsoft **PowerToys**도 써 봤지만 일상에서 꼭 필요한 핵심 기능이 몇 가지 빠져 결국 다시 여러 앱을 함께 띄워 둘 수밖에 없었습니다.
+저는 **Everything**을 10년 넘게 사용해 온 오랜 사용자입니다. 스크린샷과 화면 고정 도구는 **칼무리(Kalmuri)**, **픽픽(PicPick)**, **알캡처(ALCapture)**, **FastStone Capture**, **Snipaste** 등을 거쳐 왔고, 클립보드는 **Ditto**, 마우스 제스처는 **WGestures**와 **StrokesPlus**, 화면 녹화 도구도 수많은 앱을 써 왔습니다. 중간에 Microsoft **PowerToys**도 시도해 봤지만 일상에서 꼭 필요한 핵심 기능이 몇 가지 빠져 결국 다시 여러 앱을 함께 띄워 둘 수밖에 없었습니다.
 
-이미지 뷰어도 마찬가지였습니다. 흔한 국산/무료 뷰어는 광고와 번들이 가득했고, Google이 **Picasa**를 종료한 뒤 **FastStone Image Viewer**나 심지어 Everything 제작사의 공식 이미지 뷰어(**Void Image Viewer**)까지 찾아 써 봤지만 Picasa 특유의 경쾌하고 손에 감기는 조작감과 애니메이션에는 못 미쳐 결국 포기하고 Windows 기본 사진 앱으로 버티고 있었습니다. 그래서 Rust + Direct2D로 그리웠던 클래식 경량 Picasa 이미지 뷰어를 직접 재구현하고(2 MB 미만·외부 의존성 제로로 단독 실행 가능), 원본에 없던 4K 고해상도 DPI와 WebP/AVIF/HEIC/SVG/RAW 등 최신 포맷까지 모두 채워 넣었습니다.
+이미지 뷰어도 마찬가지였습니다. 무료 뷰어는 상용 라이선스 팝업이나 광고·번들 설치가 잦았고, Google이 **Picasa**를 종료한 뒤 **FastStone Image Viewer**나 Everything 제작사의 이미지 뷰어(**Void Image Viewer**)까지 써 봤지만 Picasa 특유의 경쾌한 조작감과 애니메이션에는 못 미쳐 결국 Windows 기본 사진 앱으로 버티고 있었습니다. 그래서 Rust + Direct3D 11로 그리웠던 클래식 경량 Picasa 이미지 뷰어를 직접 재구현하고(2 MB 미만·외부 의존성 제로로 단독 실행 가능), 원본에 없던 4K 고해상도 DPI와 WebP/AVIF/HEIC/SVG/RAW 등 최신 포맷까지 모두 채워 넣었습니다.
 
-어느 날 Windows 시스템 트레이에 줄지어 떠 있는 여러 아이콘을 보며 **“이걸 전부 하나로 합칠 수 있다면 얼마나 좋을까”**라는 생각이 들었습니다. 게다가 PixPin의 OCR은 인식률과 속도 모두 WeChat에 미치지 못했고, WGestures는 어느 날부터 화면에 작은 텍스트 상자가 계속 남아 앱을 재시작해야만 사라지는 문제가 반복됐습니다. AI 시대가 열린 김에 직접 팔을 걷어붙이고 만든 올인원 도구가 바로 **Tools3000**입니다.
+어느 날 Windows 시스템 트레이에 줄지어 떠 있는 여러 아이콘을 보며 **“광고·번들과 Electron 메모리 낭비 없이 이걸 전부 하나의 가벼운 네이티브 앱으로 합칠 수 없을까?”**라는 생각이 들었습니다. C++20 + Rust로 직접 설계해 메인 프로세스 대기 메모리를 약 **2~6 MB** 수준으로 줄인 올인원 도구가 바로 **Tools3000**입니다.
 
 새로운 사용자분들께 솔직히 말씀드리면, 공개 전 **4개월 동안 직접 실사용하며** 점진적으로 기능을 추가하고 부딪힌 버그들을 하나씩 고쳐 왔습니다. 초반에는 기존 도구들을 같이 켜 두고 문제가 생기면 잠시 돌아갔다가 수정하곤 했지만, **이제 제 시스템 트레이는 말끔히 비워지고 Tools3000 단 하나만 남아 있습니다.**
 
@@ -182,7 +182,7 @@ scoop install tools3000/tools3000
 | :--- | :--- | :--- |
 | **Everything** | `Alt + Space` 밀리초 파일명, `bm:` 브라우저 북마크 및 `content:` 문서 본문 검색, 350 KB 순수 Rust CLI / MCP 서버 내장 (온디맨드 구동) | HTTP/ETP 네트워크 공유 검색, EXIF 전 속성 정렬 또는 기존 `es.exe` 문법에 종속된 스크립트가 필요한 경우 |
 | **Ditto / Windows `Win + V` 클립보드** | `Alt + V` 순수 Rust 영구 클립보드 기록(재부팅 후 유지), `Shift / Ctrl` 순차 병합 붙여넣기·일괄 삭제, HTML/RTF 서식, 그룹, 인라인 편집 및 `Alt + 1..9` 즉시 붙여넣기 | 여러 PC 간 LAN 실시간 클립보드 동기화 또는 클라우드 계정 기반 기록 로밍이 필요한 경우 |
-| **Snipaste / PixPin** | `F1` 캡처 주석, 점선 돋보기, 스크롤 캡처, `F3` 120Hz 그룹 핀 고정, 1:1 제자리 번역, 고속 오프라인 OCR 및 제자리 텍스트 수정 | 특수 구형 GUI 요소 탐지나 전용 CLI 캡처 자동화에 의존하는 경우 |
+| **픽픽(PicPick) / 알캡처 / 칼무리 / Snipaste** | `F1` 캡처 주석, 점선 돋보기, 스크롤 캡처, `F3` 120Hz 그룹 핀 고정(4K 무손실 메모리 절약), 1:1 원위치 번역, 고속 오프라인 OCR 및 원위치 텍스트 수정 | 특수 구형 GUI 요소 탐지나 전용 CLI 캡처 자동화에 의존하는 경우 |
 | **WGestures / StrokesPlus** | 우클릭 드래그 탭/뒤로/닫기, 즉시 트리거, 화면 가장자리 휠 볼륨, 핫 코너, 전체 화면 게임 우회, Lua 확장 | 복잡한 다중 버튼 조합 제스처나 장기간 축적된 매크로 스크립트를 사용하는 경우 |
 | **화면 녹화 도구 (ShareX 등)** | 화면 녹화, 키 입력 오버레이, 자동 줌 스튜디오(파형 편집 및 마우스 자동 줌) 및 MP4 / GIF / WebP 원클릭 내보내기 | 80+ 클라우드/S3/FTP 자동 업로드 워크플로나 커스텀 FFmpeg 배치 파이프라인이 필요한 경우 |
 | **Picasa 뷰어 / FastStone / Windows 사진** | 2 MB 미만·외부 의존성 제로의 Rust 재구현 경량 Picasa 뷰어(단독 실행 가능) — 클래식 애니메이션에 4K High-DPI, WebP/AVIF/HEIC/SVG/RAW, 무손실 반전 보강 | 원본 Google Picasa의 앨범 라이브러리 관리·얼굴 인식이나 전문 일괄 RAW 현상·편집이 필요한 경우 |

diff --git a/docs/i18n/README.zh-CN.md b/docs/i18n/README.zh-CN.md
@@ -23,7 +23,12 @@
 
 <br />
 
-Tools3000 将日常高频的**文件/应用/系统命令与原站图标书签搜索（含实时刷新、3 档内存省电模式及命令行/MCP）、文档内容搜索、重启不丢的剪贴板历史、全局文本扩展器、文件对话框内嵌即搜、文件占用解锁、滚动长截图、精准截图标注、桌面贴图与贴图组、8 国语言自动离线识字与无痕原位翻译、录屏（自动运镜演播室、支持导出微信 GIF 与动态 WebP）、全局鼠标手势、配置端到端加密云备份与 Rust 轻量看图器**整合为单一原生软件。核心功能 100% 本地离线运行、完整支持中文及多语言安装目录与用户名，常驻主程序专用工作集仅约 2–6 MB（整套待机十余 MB 以内，搜索后台支持闲置 0 MB 休眠），同时适配个人电脑（`x64` / `ARM64`）与 Windows Server 多用户并发办公。
+Tools3000 将日常高频的**文件/应用/系统命令与原站图标书签搜索（含实时刷新、3 档内存省电模式及命令行/MCP）、文档内容搜索、重启不丢的剪贴板历史、全局文本扩展器、文件对话框内嵌即搜、文件占用解锁、滚动长截图、精准截图标注、桌面贴图与贴图组、8 国语言自动离线识字与无痕原位翻译、录屏（自动运镜演播室、支持导出微信 GIF 与动态 WebP）、全局鼠标手势、配置端到端加密云备份与 Rust 轻量看图器**整合为单一原生软件。核心功能 100% 本地离线运行、完整支持中文及多语言安装目录与用户名，常驻主程序专用工作集仅约 **2–6 MB**（搜索后台支持闲置 0 MB 休眠），同时适配个人电脑（`x64` / `ARM64`）与 Windows Server 多用户并发办公。
+
+> **快速下载与一键安装** — 直接下载 **[标准安装包 `.exe` / 绿色便携包 `.zip`（最新版）](https://github.com/yuan278501381/Tools3000/releases/latest)**，或使用 **Scoop** 一键安装：
+> ```powershell
+> scoop bucket add tools3000 https://github.com/yuan278501381/Tools3000 && scoop install tools3000/tools3000
+> ```
 
 ---
 
